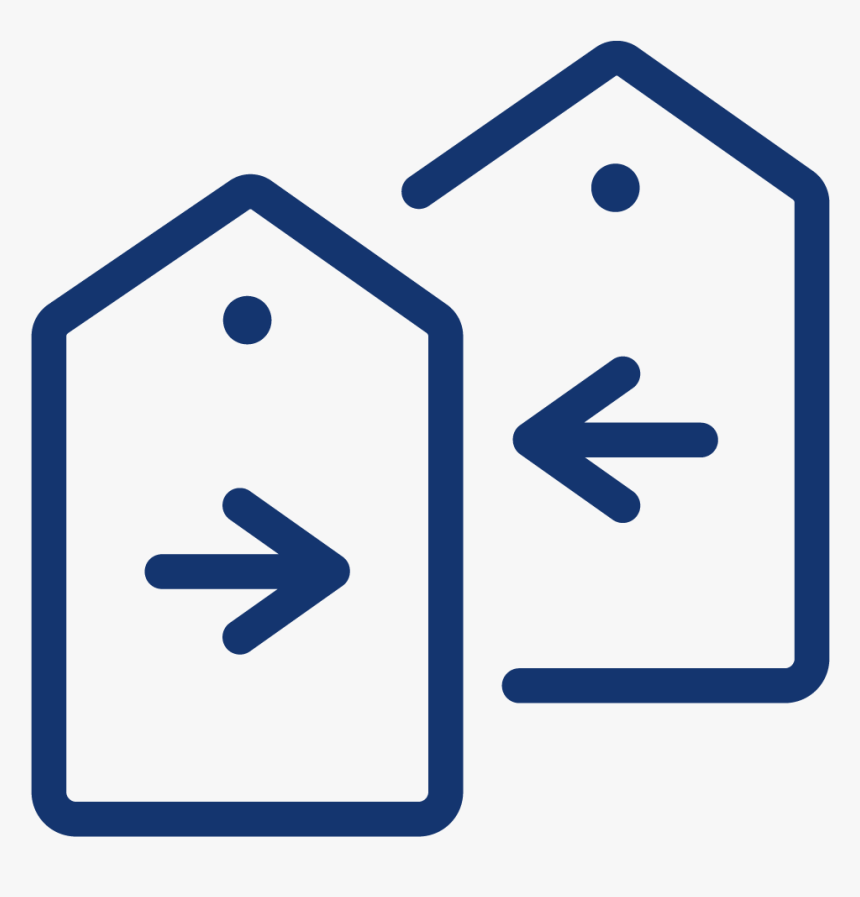
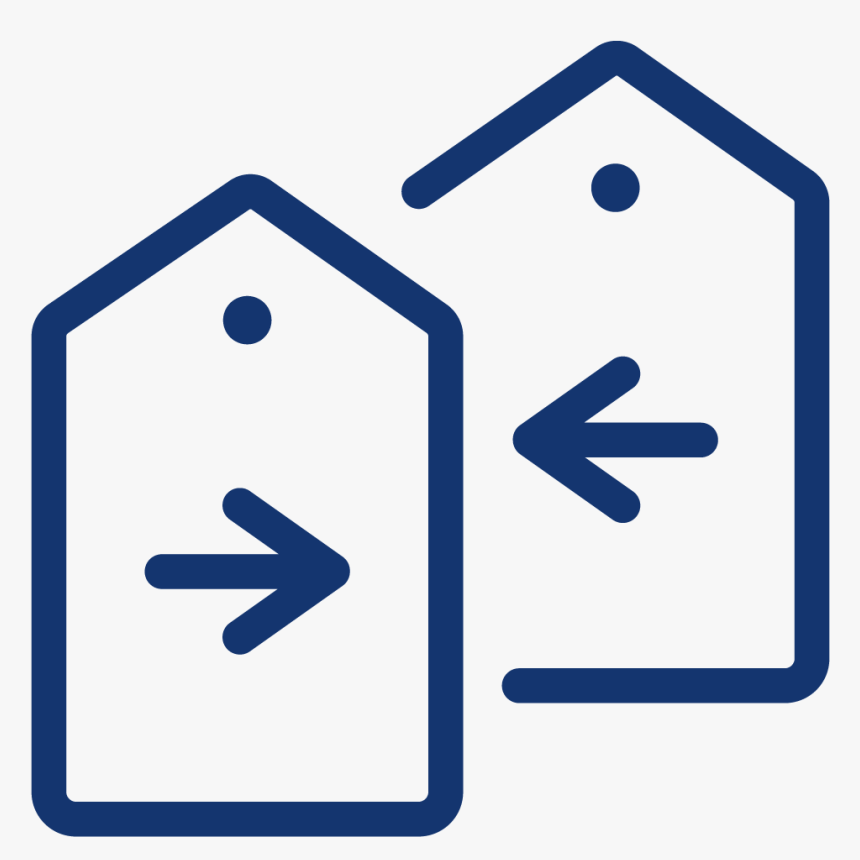
v0.0.1

diff --git a/background.js b/background.js
@@ -3,12 +3,14 @@
 
 const TOPPREISE = "https://www.toppreise.ch";
 const CACHE_TTL_MS = 6 * 60 * 60 * 1000; // 6 hours: be polite, don't hammer Toppreise
+const CACHE_VERSION = "v2"; // bump this to throw away old (possibly wrong) cached results
+const MIN_SIMILARITY = 0.5; // how alike the two product names must be (0..1)
 
-// ---- Things you will probably need to tweak after looking at Toppreise's real HTML ----
+// ---- Things you may need to tweak after looking at Toppreise's real HTML ----
 const SEARCH_URL = (q) => `${TOPPREISE}/produktsuche?q=${encodeURIComponent(q)}`;
-// Links on the search results page that point to a single product's comparison page.
+// Links that point to a single product's comparison page.
 const PRODUCT_LINK_SELECTOR = 'a[href*="/preisvergleich/"]';
-// ----------------------------------------------------------------------------------------
+// ------------------------------------------------------------------------------
 
 browser.runtime.onMessage.addListener((msg) => {
   if (msg && msg.type === "lookup") return lookup(msg.product);
@@ -17,47 +19,73 @@ browser.runtime.onMessage.addListener((msg) => {
 async function lookup(product) {
   const hasAccess = await browser.permissions.contains({ origins: [`${TOPPREISE}/*`] });
   if (!hasAccess) return { status: "no-permission" };
+  if (!product.name) return { status: "not-found" };
 
-  // Prefer an exact identifier; fall back to the product name.
-  const query = product.gtin || product.mpn || product.name;
-  const matchedBy = product.gtin ? "EAN" : product.mpn ? "part number" : "name";
-  if (!query) return { status: "not-found" };
-
-  const cacheKey = `tp:${query}`;
+  const cacheKey = `tp:${CACHE_VERSION}:${product.gtin || product.mpn || product.name}`;
   const cached = (await browser.storage.local.get(cacheKey))[cacheKey];
   if (cached && Date.now() - cached.time < CACHE_TTL_MS) return cached.result;
 
-  let result;
+  // Try the most exact identifier first, then fall back to looser ones.
+  const attempts = [
+    product.gtin && { query: product.gtin, matchedBy: "EAN" },
+    product.mpn && { query: product.mpn, matchedBy: "part number" },
+    { query: product.name, matchedBy: "name" },
+  ].filter(Boolean);
+
+  let result = { status: "not-found", searchUrl: SEARCH_URL(product.name) };
   try {
-    result = await searchToppreise(query, matchedBy);
+    for (const { query, matchedBy } of attempts) {
+      const found = await searchToppreise(query, product.name);
+      console.log("[Toppreise Check]", matchedBy, query, "→", found);
+      if (found) {
+        result = { status: "ok", ...found, matchedBy };
+        break;
+      }
+    }
   } catch (err) {
-    return { status: "error", message: String(err.message || err), searchUrl: SEARCH_URL(query) };
+    return { status: "error", message: String(err.message || err), searchUrl: SEARCH_URL(product.name) };
   }
 
   await browser.storage.local.set({ [cacheKey]: { time: Date.now(), result } });
   return result;
 }
 
-async function searchToppreise(query, matchedBy) {
-  const searchUrl = SEARCH_URL(query);
-  const search = await fetchPage(searchUrl);
+// Returns an offer for the product, or null if nothing on Toppreise really matches it.
+async function searchToppreise(query, wantedName) {
+  const search = await fetchPage(SEARCH_URL(query));
 
-  // Case 1: Toppreise jumped straight to the product page (common for an exact EAN),
-  // or the search page itself carries offer data.
-  let offer = extractOffer(search.doc);
-  let pageUrl = search.url;
-
-  // Case 2: a normal results list -> open the first product and read its offers.
-  if (!offer) {
-    const link = search.doc.querySelector(PRODUCT_LINK_SELECTOR);
-    if (!link) return { status: "not-found", searchUrl };
-    pageUrl = new URL(link.getAttribute("href"), TOPPREISE).href;
-    const product = await fetchPage(pageUrl);
-    offer = extractOffer(product.doc);
+  // Case 1: Toppreise jumped straight to a product page (common for an exact EAN).
+  if (search.url.includes("/preisvergleich/")) {
+    return checkedOffer(search.doc, search.url, wantedName);
   }
 
-  if (!offer) return { status: "not-found", searchUrl };
-  return { status: "ok", ...offer, url: pageUrl, matchedBy };
+  // Case 2: a results list. Score every product link by how well it matches our product
+  // and only open the best one, instead of blindly taking the first link on the page.
+  const candidates = [...search.doc.querySelectorAll(PRODUCT_LINK_SELECTOR)]
+    .map((a) => {
+      const url = new URL(a.getAttribute("href"), TOPPREISE).href;
+      const label = `${a.textContent} ${a.title || ""} ${slugText(url)}`;
+      return { url, score: similarity(wantedName, label) };
+    })
+    .filter((c) => c.score >= MIN_SIMILARITY)
+    .sort((a, b) => b.score - a.score);
+
+  if (!candidates.length) return null;
+  const page = await fetchPage(candidates[0].url);
+  return checkedOffer(page.doc, page.url, wantedName);
+}
+
+// Read the offer from a product page, but only accept it if the names match.
+function checkedOffer(doc, url, wantedName) {
+  const offer = extractOffer(doc);
+  if (!offer) return null;
+  const name = offer.name || pageTitle(doc);
+  const score = similarity(wantedName, name || slugText(url));
+  if (score < MIN_SIMILARITY) {
+    console.log("[Toppreise Check] rejected:", name, "score", score.toFixed(2));
+    return null;
+  }
+  return { ...offer, name, url };
 }
 
 async function fetchPage(url) {
@@ -66,6 +94,52 @@ async function fetchPage(url) {
   const html = await res.text();
   return { url: res.url, doc: new DOMParser().parseFromString(html, "text/html") };
 }
+
+// ---------- Name matching ----------
+
+// Words that say nothing about which product it is.
+const NOISE = new Set(["the", "and", "mit", "und", "for", "für", "with", "wireless", "black", "white", "schwarz", "weiss"]);
+
+function tokens(text) {
+  return new Set(
+    String(text || "")
+      .toLowerCase()
+      .split(/[^a-z0-9äöü]+/)
+      .filter((t) => t.length >= 1 && !NOISE.has(t))
+  );
+}
+
+// 0 = nothing in common, 1 = all words of the shorter name appear in the other one.
+// Also: if both names contain numbers but share none (e.g. "Pro 2" vs "Pro 3"),
+// they are treated as different products.
+function similarity(a, b) {
+  const A = tokens(a);
+  const B = tokens(b);
+  if (!A.size || !B.size) return 0;
+
+  const shared = [...A].filter((t) => B.has(t));
+  const numsA = [...A].filter((t) => /\d/.test(t));
+  const numsB = [...B].filter((t) => /\d/.test(t));
+  if (numsA.length && numsB.length && !shared.some((t) => /\d/.test(t))) return 0;
+
+  const words = shared.filter((t) => t.length >= 2).length + shared.filter((t) => t.length < 2).length * 0.5;
+  return words / Math.min(A.size, B.size);
+}
+
+// "/preisvergleich/Kopfhoerer/APPLE-AirPods-Pro-3-p123" -> "APPLE AirPods Pro 3"
+function slugText(url) {
+  const last = new URL(url).pathname.split("/").pop() || "";
+  return last.replace(/-p\d+$/, "").replace(/-/g, " ");
+}
+
+function pageTitle(doc) {
+  const og = doc.querySelector('meta[property="og:title"]');
+  if (og && og.content) return og.content;
+  const h1 = doc.querySelector("h1");
+  return h1 ? h1.textContent.trim() : null;
+}
+
+// ---------- Price extraction ----------
 
 // Pull the lowest price out of a page. Tries structured data (JSON-LD) first,
 // then falls back to scanning the visible text for "CHF 123.45".

diff --git a/content.js b/content.js
@@ -112,6 +112,9 @@
           (result.shop ? ` at ${result.shop}` : "") +
           (result.offerCount ? ` · ${result.offerCount} offers` : "");
         body.append(el("div", { textContent: detail }));
+        if (result.name) {
+          body.append(el("div", { className: "tp-matched", textContent: `Compared with: ${result.name}` }));
+        }
 
         if (result.matchedBy !== "EAN") {
           body.append(el("div", { className: "tp-note", textContent: `Matched by ${result.matchedBy} — double-check it's the same item.` }));

diff --git a/content.css b/content.css
@@ -25,6 +25,7 @@
   margin-bottom: 4px;
 }
 #tp-check-box .tp-main { font-weight: 700; font-size: 15px; margin-bottom: 2px; }
+#tp-check-box .tp-matched { font-size: 12px; color: #666; margin-top: 4px; }
 #tp-check-box .tp-note { font-size: 12px; color: #a66b00; margin-top: 4px; }
 #tp-check-box .tp-link { display: inline-block; margin-top: 6px; color: #0a66c2; }
 #tp-check-box .tp-close {
